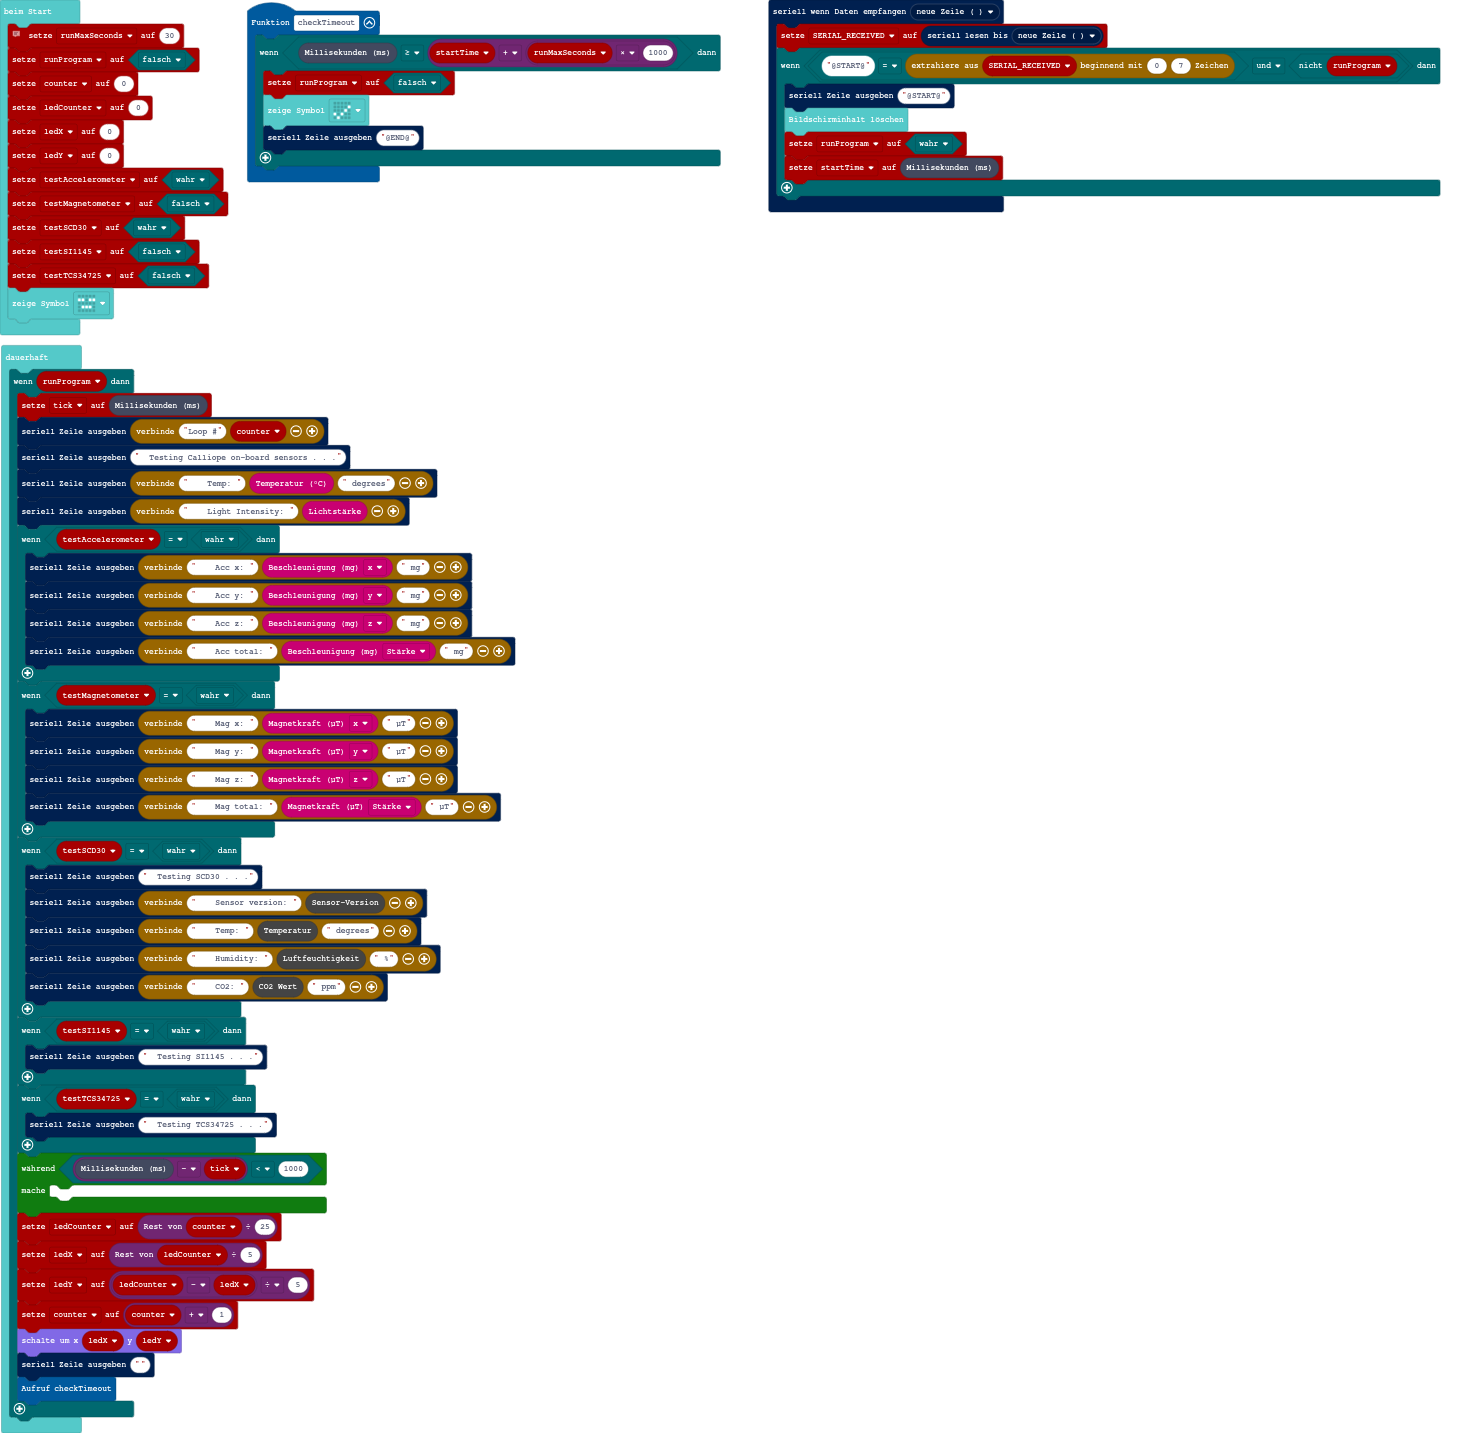
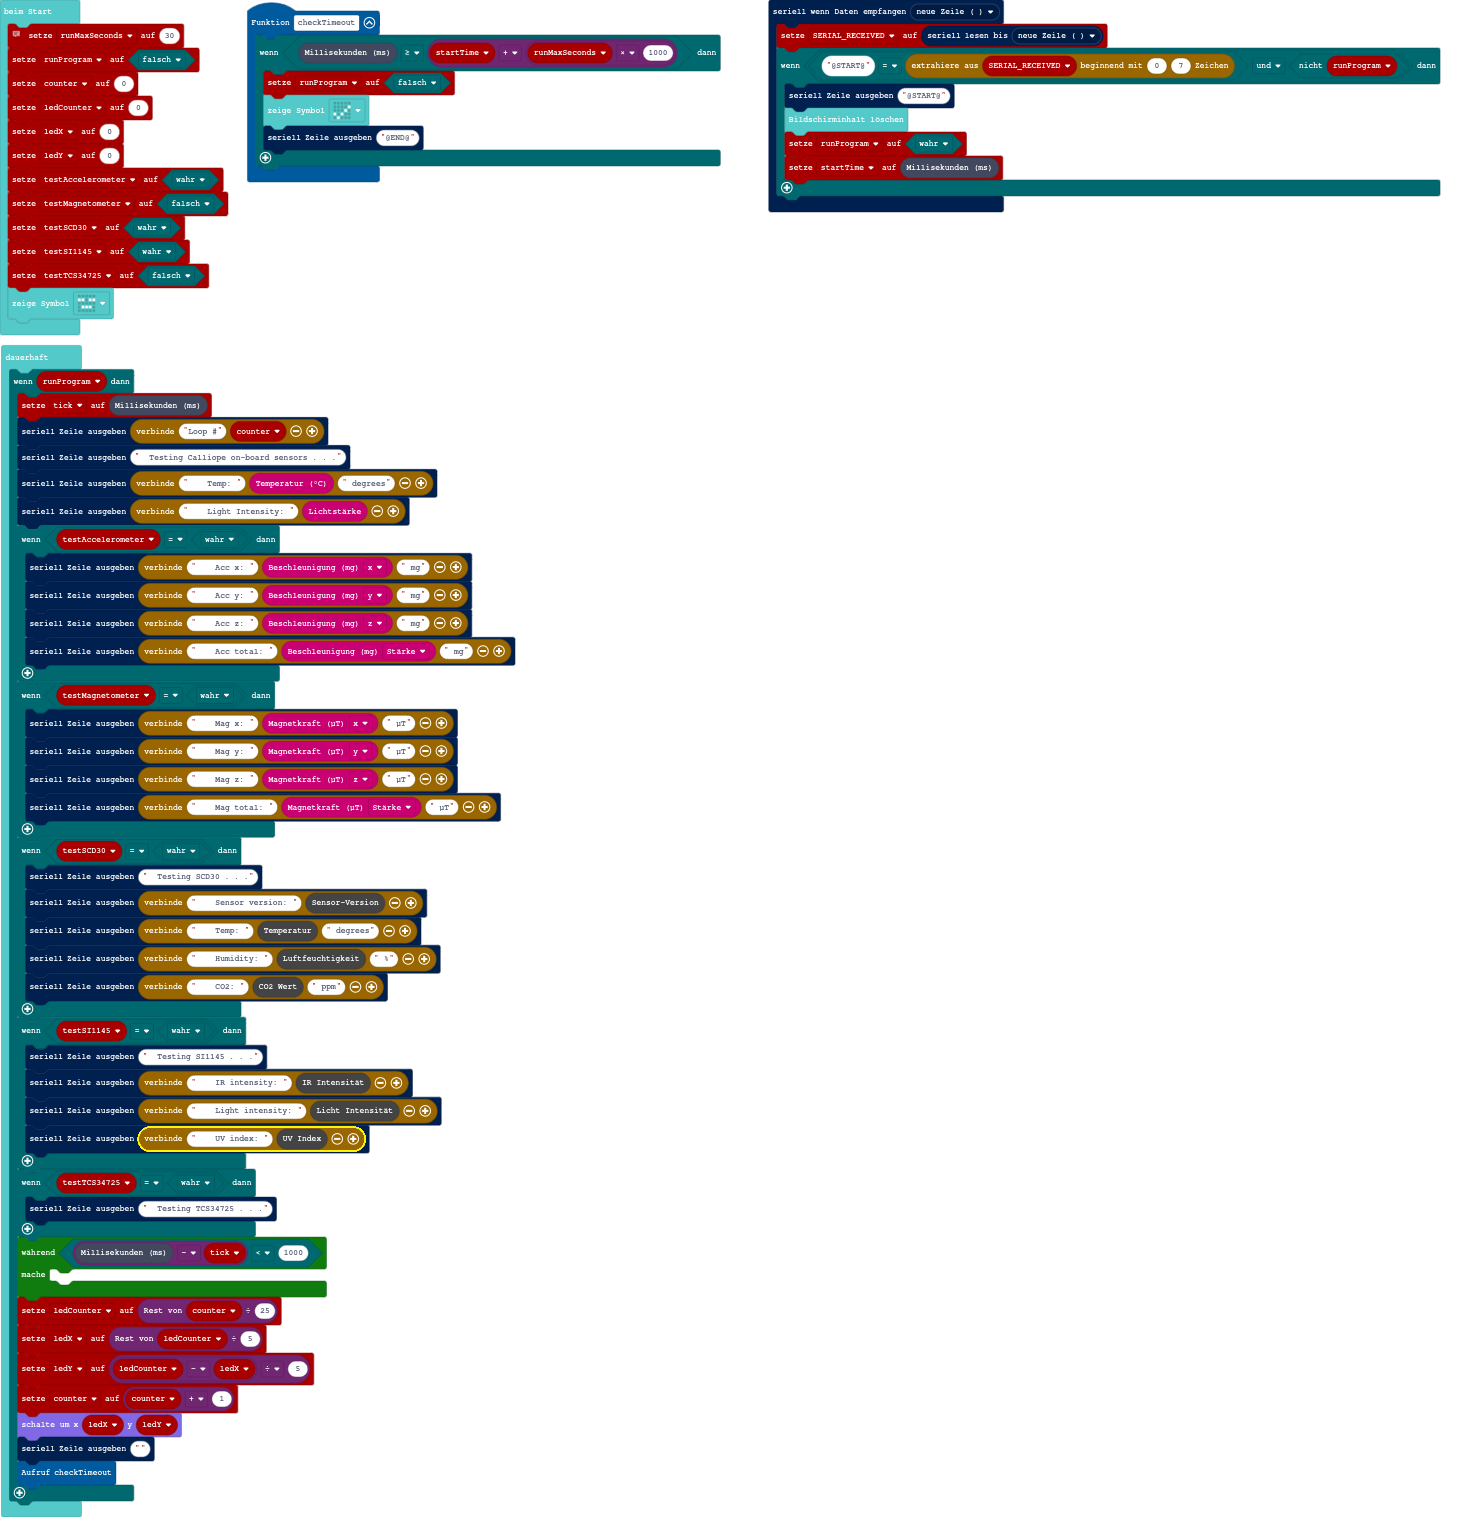
Added light sensor SI1145

Changed region(s): [[0.0, 0.0, 0.4911, 1.0], [0.5218, 0.0, 0.9823, 0.1535]]

diff --git a/main.ts b/main.ts
@@ -29,7 +29,7 @@ let ledY = 0
 let testAccelerometer = true
 let testMagnetometer = false
 let testSCD30 = true
-let testSI1145 = false
+let testSI1145 = true
 let testTCS34725 = false
 basic.showIcon(IconNames.Asleep)
 basic.forever(function () {
@@ -60,6 +60,9 @@ basic.forever(function () {
         }
         if (testSI1145 == true) {
             serial.writeLine("  Testing SI1145 . . .")
+            serial.writeLine("    IR intensity: " + SI1145.readInfraRed())
+            serial.writeLine("    Light intensity: " + SI1145.readLight())
+            serial.writeLine("    UV index: " + SI1145.readUltraVioletIndex())
         }
         if (testTCS34725 == true) {
             serial.writeLine("  Testing TCS34725 . . .")
